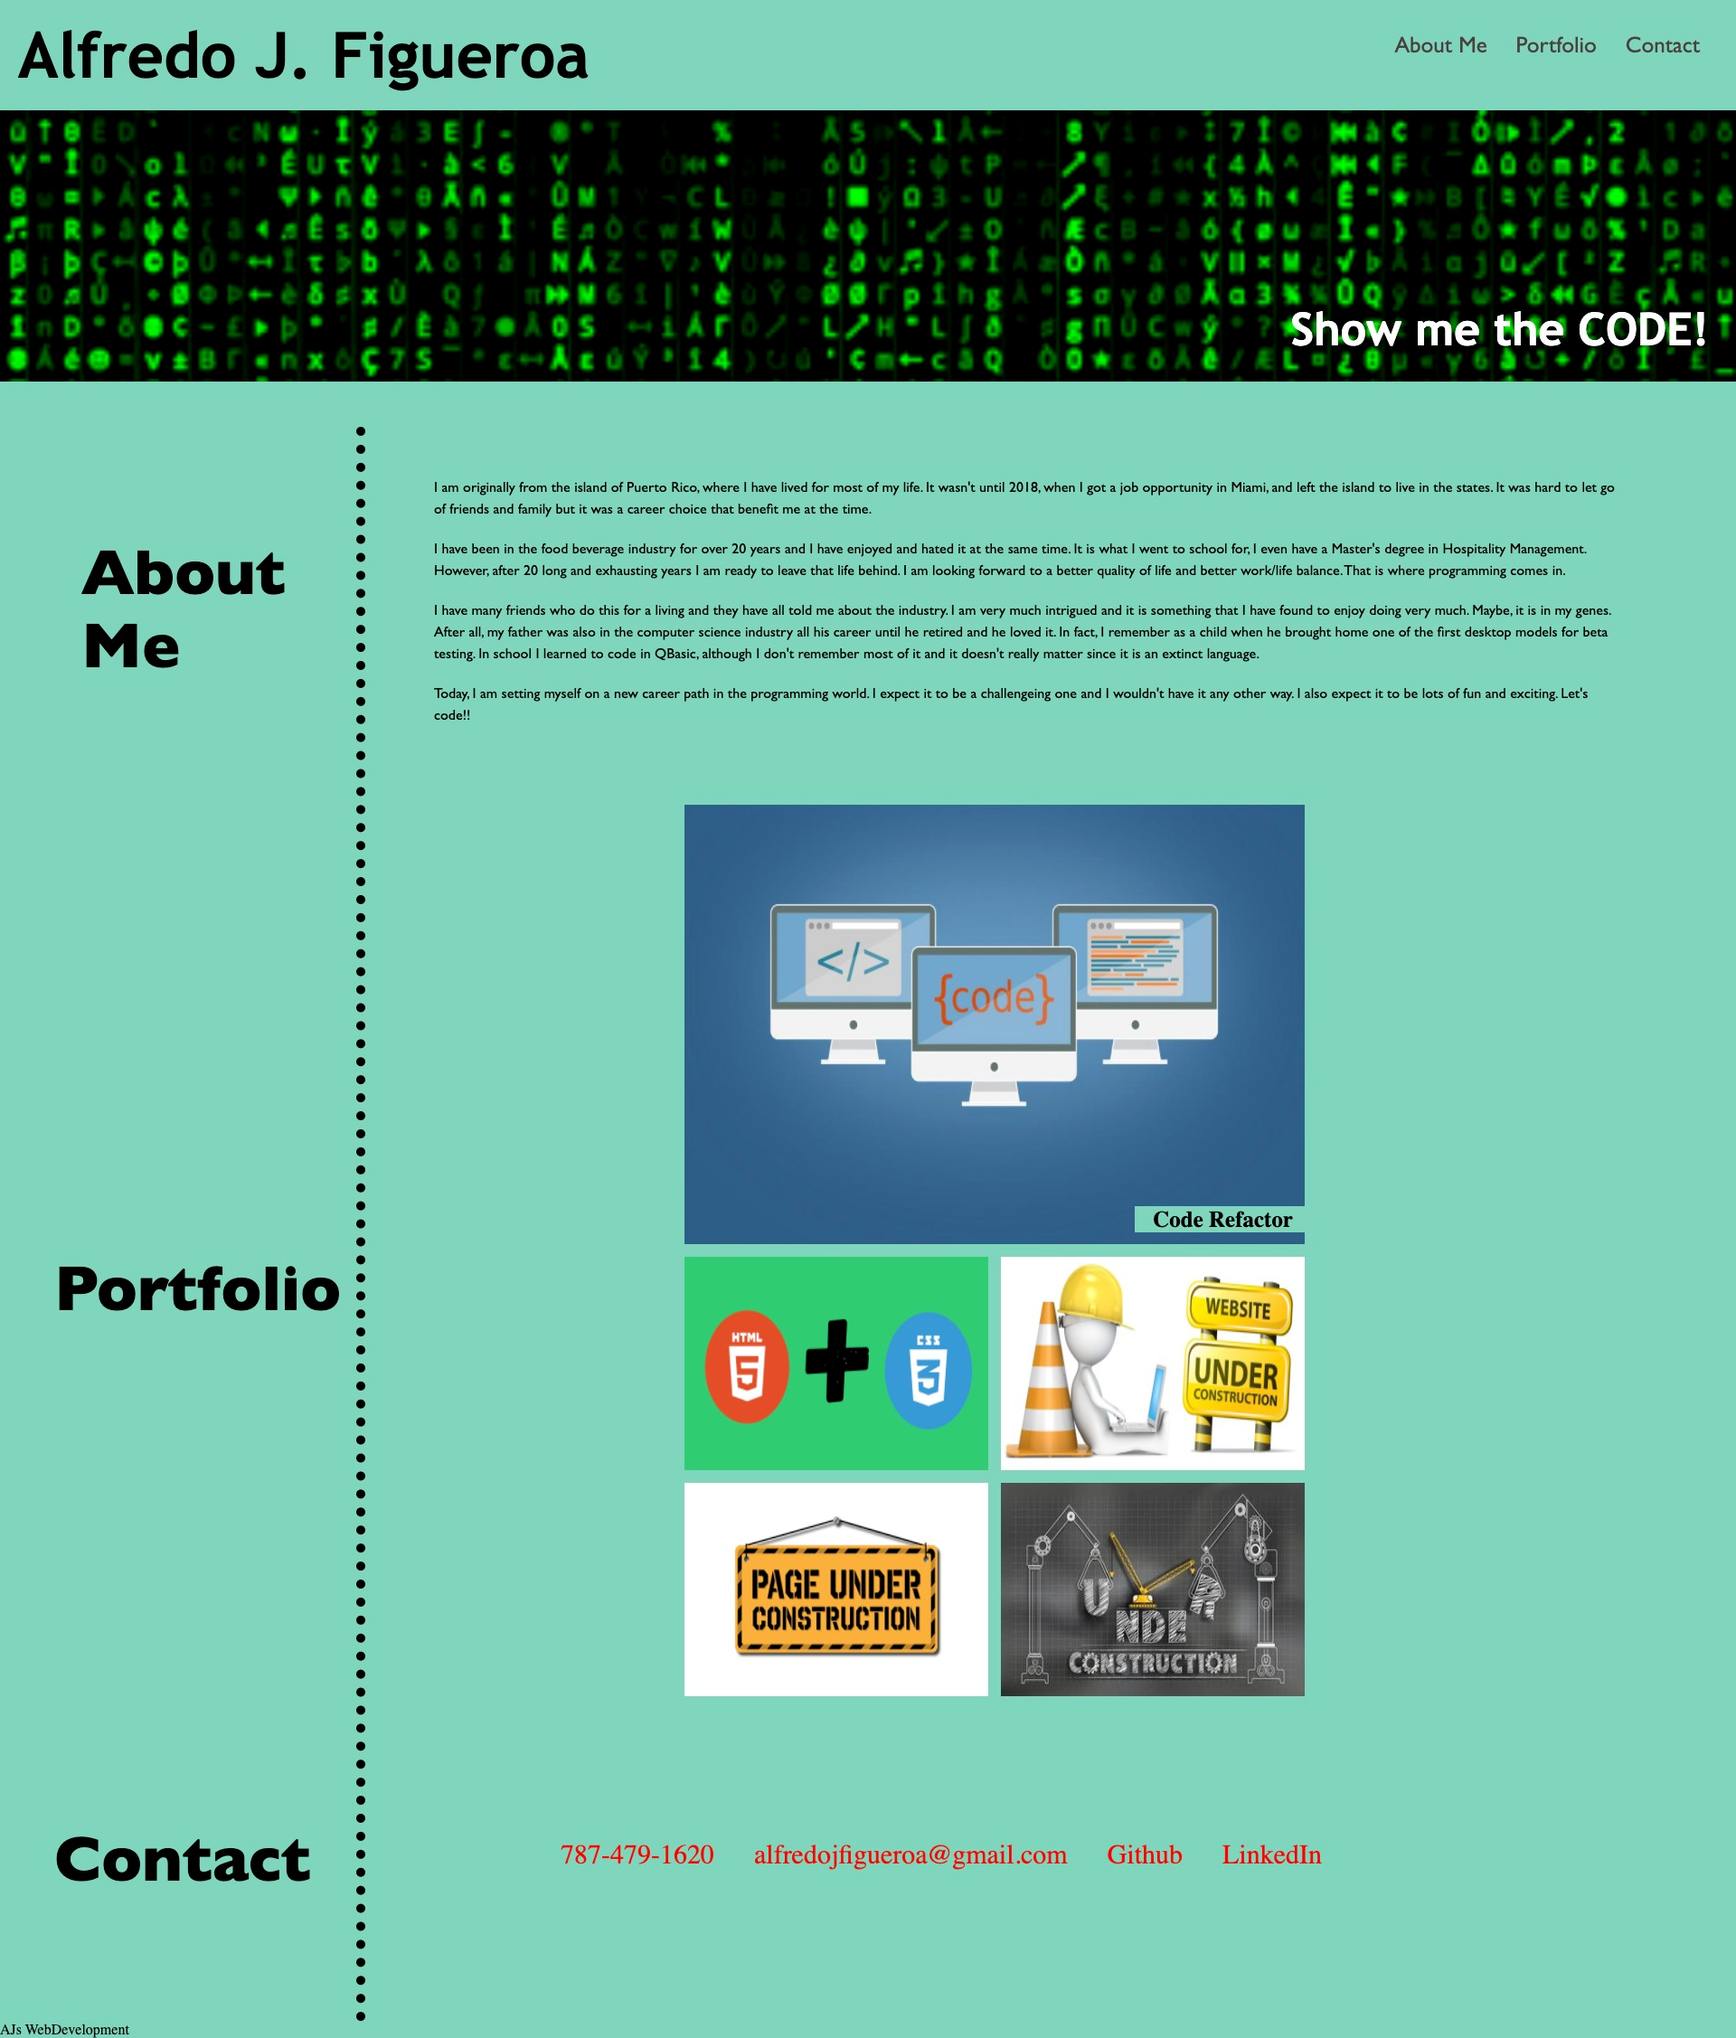
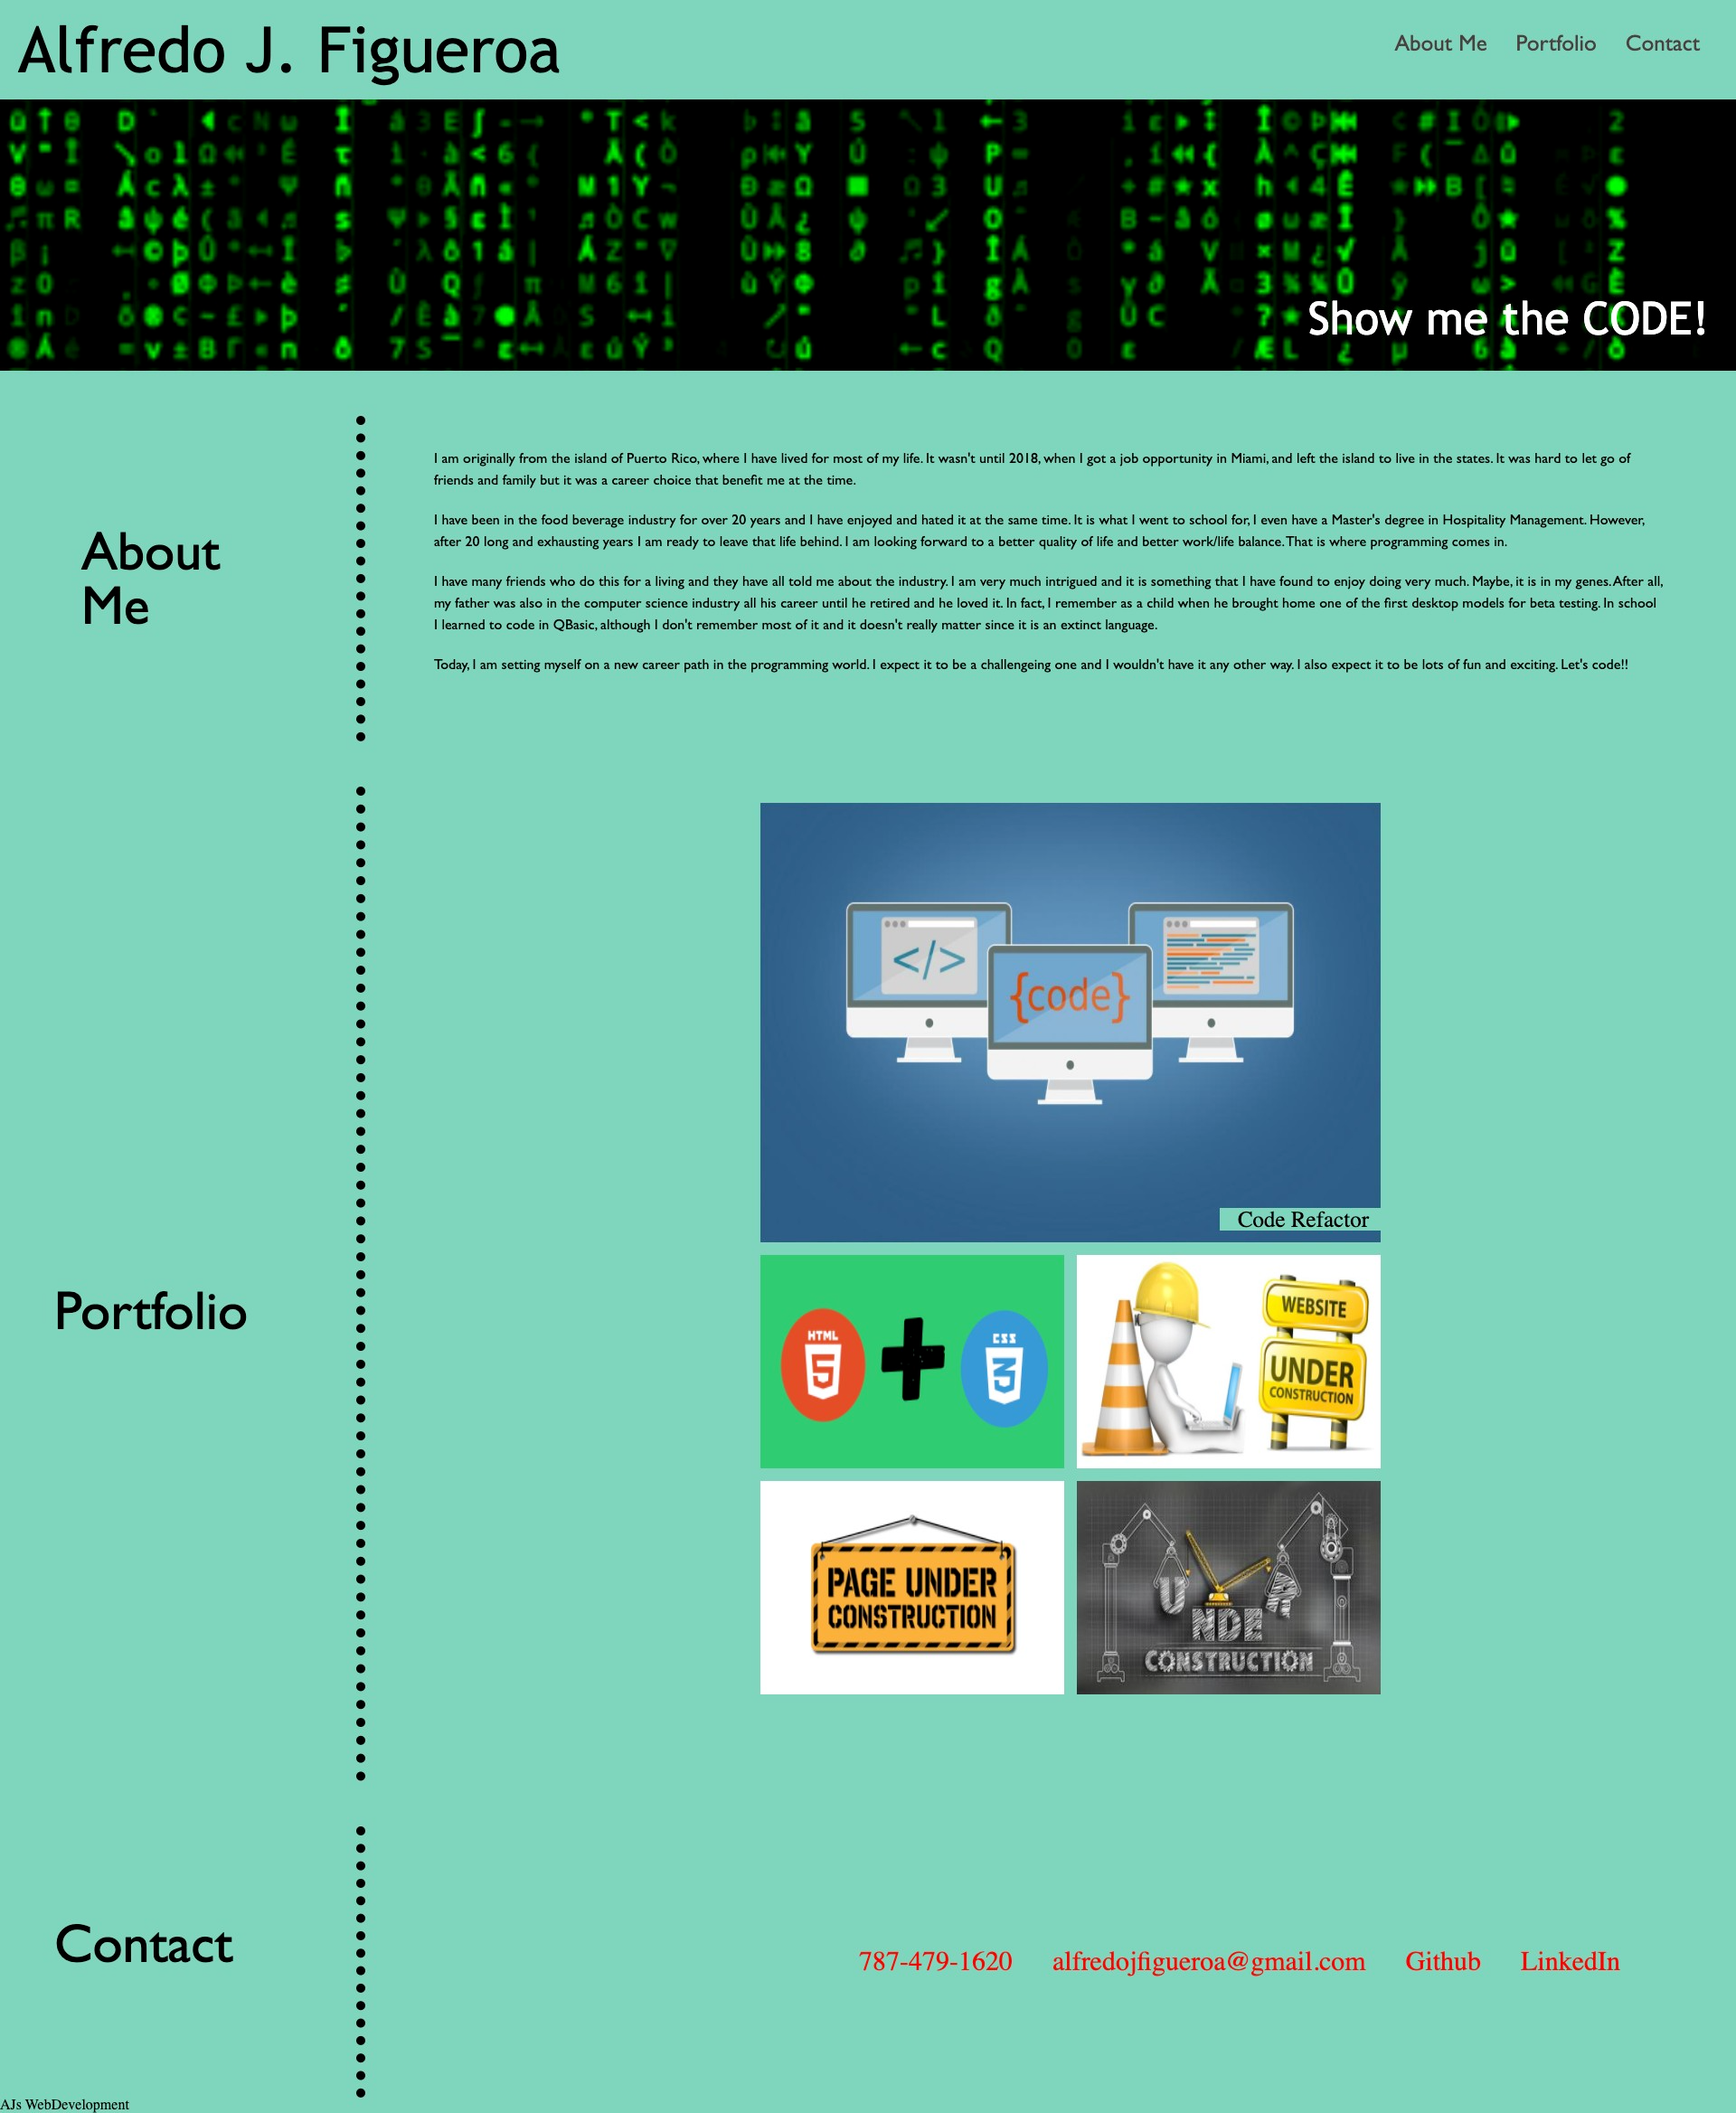
made changes in css to improve the page layout.

diff --git a/Assets/CSS/style.css b/Assets/CSS/style.css
@@ -6,7 +6,7 @@
 :root {
   --coolGlow: blue;
 }
-
+/* gives scrolling effect to take the user to a specific section of the screen */
 html {
   scroll-behavior: smooth;
 }
@@ -34,11 +34,15 @@ header nav {
   float: right;
   font-family: 'Gill Sans', 'Gill Sans MT', Calibri, 'Trebuchet MS', sans-serif;
   font-size: 25px;
+  display: flex;
+  flex-wrap: wrap;
+  flex: 1;
 }
 
 header nav ul li {
   display: inline-block;
   margin-left: 25px;
+  flex-wrap: wrap;
 }
 
 a {
@@ -72,29 +76,33 @@ p {
 
 .main-container {
   position: absolute;
+  width: 75%;
+  right: 150px;
 }
 
 .aboutMe-container {
   position: relative;
-  left: 400px;
-  width: 75%;
+  width: 100%;
   display: flex;
   flex-wrap: wrap;
+  flex: 1;
+  left: 90px;
   margin: 20px;
-  padding: 50px;
+  padding: 30px;
   font-family: 'Gill Sans', 'Gill Sans MT', Calibri, 'Trebuchet MS', sans-serif;
   color: #000000;
 }
 
-/* .row {
+.row {
   display: flex;
-  flex-direction: row;
   flex-wrap: wrap;
-} */
+  flex-direction: row;
+  margin-right: 900px;
+}
 
-/* .justify-center {
+.justify-center {
   justify-content: center;
-} */
+}
 
 #first-code {
   width: 700px;
@@ -111,12 +119,24 @@ img {
   border: #7fd6bc solid 2px;
 }
 
+/* mobile first approach, setting base column width to be 100%  */
+.pics-column {
+  flex: 1 0 100%;
+  padding: 1.5rem;
+  /* when the screen resizes, make it so our columns don't jump in size */
+  transition: flex-basis 500ms linear;
+  margin-bottom: 1.5rem;
+}
+
 .flex-container {
   position: relative;
   display: flex;
   flex-wrap: wrap;
+  justify-content: flex-start;
+  min-height: 100%;
   width: 700px;
-  left: 750px;
+  left: 300px;
+  bottom: -50px;
 }
 
 .img-container {
@@ -144,7 +164,7 @@ img:hover {
   width: 300px;
   font-size: 30px;
   color: red;
-  bottom: -150px;
+  bottom: -275px;
   left: 600px;
   list-style-type: none;
   padding: 20px;
@@ -163,7 +183,6 @@ aside {
   width: 20%;
   height: 100%;
   font-family: 'Gill Sans', 'Gill Sans MT', Calibri, 'Trebuchet MS', sans-serif;
-  /* background-color: #2589bd; */
   border-right: 10px dotted black;
 }
 
@@ -192,4 +211,26 @@ aside {
   font-size: 60px;
   padding: 100px 20px;
   margin-right: 20px;
+}
+
+@media screen and (max-width: 768px) {
+  .pics-column {
+    flex: 0 0 50%;
+    max-width: 50%;
+  }
+
+ .pics-column:last-child {
+   flex-grow: 1;
+ } 
+}
+
+@media screen and (min-width: 992px) {
+  header {
+    width: 100%;
+  }
+
+  .pics-column {
+    flex: 0 0 33.333%;
+    max-width: 33.333%;
+  }
 }

diff --git a/index.html b/index.html
@@ -79,10 +79,14 @@
         <section class="aboutMe" id="aboutMe">
             <h3>About Me</h3>
         </section>
+    </aside>
+    <aside>    
         <!-- added aside container with portfolio id -->
         <section class="portfolio" id="portfolio">
             <h3>Portfolio</h3>
         </section>
+    </aside>
+    <aside>    
         <!-- added aside container with contact id -->
         <section class="contact" id="contact">
             <h3>Contact</h3>
